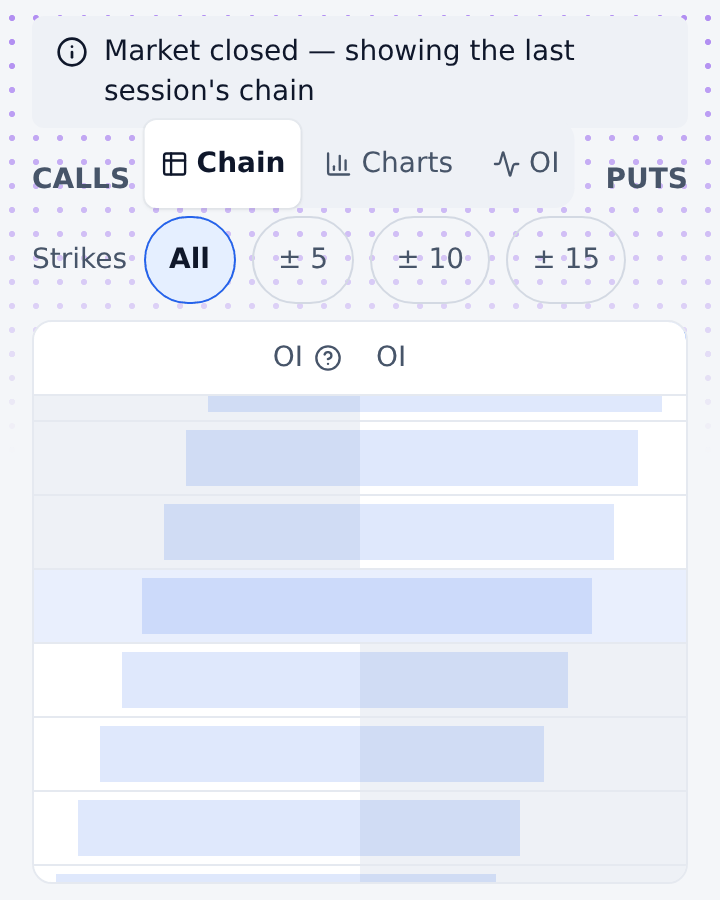
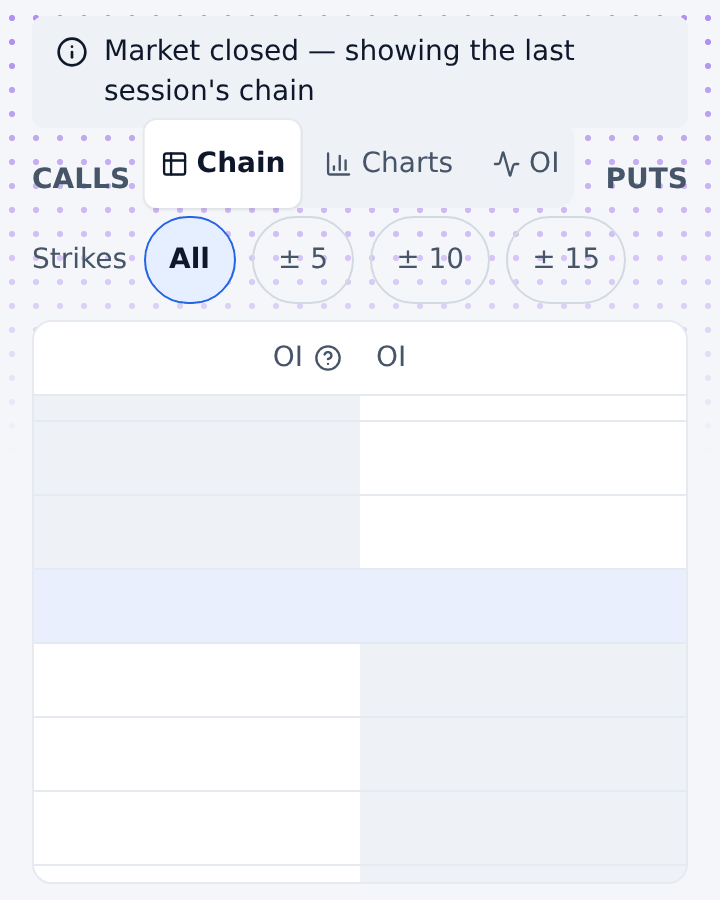
M95: front images - no fixture proportions: journal bars and chain OI bars hidden
No real per-strike option OI is stored for the as-of day (private store searched), so the chain
image keeps only its header, the Calls / Puts OI column titles and the ATM row. The journal card
keeps its title and the five part names. journal.png re-pinned.

Claude-Session: https://claude.ai/code/session_01DartbPxmHrAyA5TTsS4Pys

Changed region(s): [[0.0611, 0.4356, 0.9167, 0.9956]]

diff --git a/frontend/scripts/front-images/front-images.e2e.ts b/frontend/scripts/front-images/front-images.e2e.ts
@@ -221,11 +221,13 @@ test("option-chain", async ({ page }) => {
   await page.goto("/option-chain");
   await expect(page.locator("tr[data-atm]")).toBeVisible({ timeout: 15_000 });
   await page.waitForLoadState("networkidle");
-  // Hidden: the whole summary (prices, and the fixture's made-up PCR / IV), the strike and premium columns and every OI
-  // figure (the fixture's numbers). Shown: the chain's OI bars by side, the highest-OI marks and the ATM row.
+  // No real per-strike OI is stored for the as-of day, so every fixture value is hidden: the whole summary (prices, and
+  // the made-up PCR / IV), the strike and premium columns, every OI figure, its bar and the highest-OI mark. Shown: the
+  // chain's header, its Calls / Puts OI column titles and the ATM row.
   await capture(page, "option-chain", [
     "[data-block='chain-summary'] { display: none !important; }",
-    "[data-chain-scroll] td[data-col$='-oi'] > span.relative { visibility: hidden !important; }",
+    "[data-chain-scroll] td[data-col$='-oi'] > span { visibility: hidden !important; }",
+    "[data-chain-scroll] td[data-max-oi] { box-shadow: none !important; }",
     "[data-chain-scroll] [data-col$='-ltp'], [data-chain-scroll] tr > th[scope='row'], [data-chain-scroll] th[data-front-hide] { display: none !important; }",
   ].join("\n"), async () => {
     // The header cells of the hidden columns (they carry no data attribute of their own): marked here, hidden above.
@@ -317,10 +319,10 @@ test("journal", async ({ page }) => {
   await expect(page.locator("[data-block='journal-list']")).toBeVisible({ timeout: 15_000 });
   await page.getByRole("tab", { name: "Week" }).click();
   await page.waitForLoadState("networkidle");
-  // On the Week tab: the discipline score card only (the cards after it would be cut by the crop), with its made-up
-  // figures hidden - the score, the decision count and each part's points (the part names and the card stay).
+  // On the Week tab: the discipline score card only (the cards after it would be cut by the crop), with every made-up
+  // value hidden - the score, the decision count, each part's points and its bar (the title and part names stay).
   await capture(page, "journal", ["[data-front-score] ~ * { visibility: hidden !important; }",
-    "div:has(> [data-score]) { display: none !important; } [data-component] .font-tabular { visibility: hidden !important; }"].join("\n"), async () => {
+    "div:has(> [data-score]) { display: none !important; } [data-component] .font-tabular, [data-component] > div[aria-hidden] { visibility: hidden !important; }"].join("\n"), async () => {
     await page.getByText("Discipline score").first().evaluate((el) => {
       const card = el.closest("section, [data-block], div.rounded-panel") ?? el;
       card.setAttribute("data-front-score", "");

diff --git a/scripts/check_public_repo.py b/scripts/check_public_repo.py
@@ -132,8 +132,8 @@ ALLOWED_TEST_DATA: Dict[str, str] = {
[2 lines of base64/hex data omitted]
     # M95: the front door's Journal image - the Week tab's discipline score card on the e2e journal fixture, every figure
-    # hidden (part names and bars only, no amount, no price); re-pin after regenerating it (frontend/scripts/front-images/)
[1 lines of base64/hex data omitted]
+    # hidden (title and part names only, no amount, no price); re-pin after regenerating it (frontend/scripts/front-images/)
[1 lines of base64/hex data omitted]
     # ATP-generated goldens on synthetic, seeded inputs (each regeneration site names this list)
[2 lines of base64/hex data omitted]
